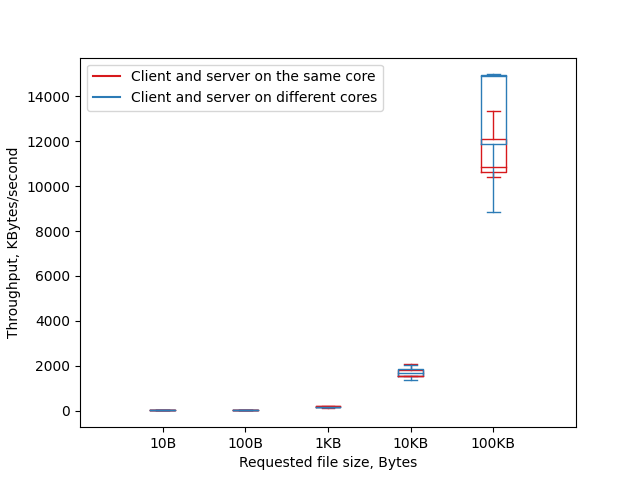
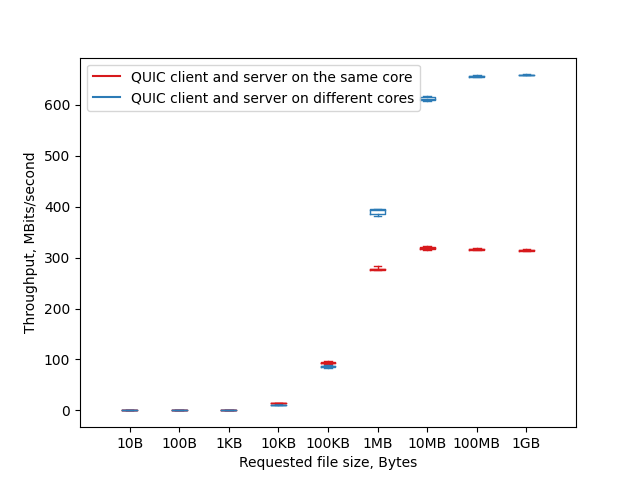
Improved impact-of-core-pinning test

diff --git a/testing-scripts/test_impact-of-core-pinning/visualise.py b/testing-scripts/test_impact-of-core-pinning/visualise.py
@@ -1,0 +1,117 @@
+print("Visualising...")
+
+
+# import matplotlib
+# import matplotlib.pyplot as plt
+# import numpy as np
+
+# 1. Extract data
+# Using code and ideas from: https://stackoverflow.com/questions/3207219/how-do-i-list-all-files-of-a-directory
+import os
+from os.path import isfile, join
+import csv
+from statistics import *
+import json
+
+
+
+number_of_experiments=10
+
+
+
+# Using writing functionality from https://www.programiz.com/python-programming/writing-csv-files
+with open('summary_of_results.csv', 'w', newline='') as summary_of_results_file:
+    results_writer = csv.writer(summary_of_results_file, delimiter=',')
+    results_writer.writerow(["number_of_experiments:", number_of_experiments])
+    results_writer.writerow(["delay_ms", "probability_of_loss_percentage", "payload_size", "clients_requests",      
+        "min_receiver_throughput_megabits_per_second", "max_receiver_throughput_megabits_per_second", "avg_receiver_throughput_megabits_per_second", "stdev_receiver_throughput_megabits_per_second",
+        "min_completion_time_in_miliseconds"         , "max_completion_time_in_miliseconds"         , "avg_completion_time_in_miliseconds"         , "stdev_completion_time_in_miliseconds",
+        "min_lost_percent"                           , "max_lost_percent"                           , "avg_lost_percent"                           , "stdev_lost_percent",
+        "min_emitted_bytes"                          , "max_emitted_bytes"                          , "avg_emitted_bytes"                          , "stdev_emitted_bytes" 
+        ])
+
+    # 1. Extract data
+    for delay_ms in [0]: #0 1 10 100
+        for probability_of_loss_percentage in [0]: #0.0001 0.001 0.01 0.1 1 
+            for payload_size in [1000000, 10000000, 100000000, 1000000000]: #1000000, 10000000, 100000000, 1000000000
+                for clients_requests in [1]: #1, 10
+
+                    group_experiment_description=("payload-size_" + str(payload_size) + 
+                        "____delay-ms_" + str(delay_ms) + 
+                        "____loss-rate-percent_" + str(probability_of_loss_percentage) +
+                        "____clients-requests_" + str(clients_requests))
+                    experiment_group_folder="./results/" + group_experiment_description
+                    print("experiment_group_folder: ", experiment_group_folder)
+
+                    list_receiver_throughput_megabits_per_second = []
+                    list_completion_time_in_miliseconds = []
+                    list_lost_percent = []
+                    list_emitted_bytes=[]
+
+                    
+
+                    for experiment_number in range(1,number_of_experiments+1):
+                        print("----")
+                        print ("  experiment_number              : ", experiment_number)
+                        print ("  payload_size                   : ", payload_size)
+                        print ("  probability_of_loss_percentage : ", probability_of_loss_percentage)
+                        print ("  delay-ms                       : ", delay_ms)
+                        print ("  clients_requests               : ", clients_requests)
+                        
+                        individual_experiment_folder= str(experiment_group_folder) + "/" + str(experiment_number)
+
+
+                        # File reading functionality is written according instructions from:
+                        # https://stackabuse.com/reading-and-writing-json-to-a-file-in-python/
+                        # https://realpython.com/read-write-files-python/
+                        with open(individual_experiment_folder+'/result.json') as results_file:
+                            experiment_data = json.load(results_file)
+                            experiment_summary = experiment_data['end']['sum']
+
+                            receiver_throughput_megabits_per_second = float(experiment_summary['bits_per_second'])/1000000
+                            list_receiver_throughput_megabits_per_second.append(receiver_throughput_megabits_per_second)
+
+                            completion_time_in_miliseconds = float(experiment_summary['seconds'])*1000
+                            list_completion_time_in_miliseconds.append(completion_time_in_miliseconds)
+
+                            lost_percent = float(experiment_summary['lost_percent'])
+                            list_lost_percent.append(lost_percent)
+
+                            emitted_bytes = float(experiment_summary['bytes'])
+                            list_emitted_bytes.append(emitted_bytes)
+
+                            print("    completion_time_in_miliseconds          : ", float(completion_time_in_miliseconds))
+                            print("    receiver_throughput_megabits_per_second : ", float(receiver_throughput_megabits_per_second))
+                            print("    lost_percent                            : ", float(lost_percent))
+                            print("    emitted_bytes                           : ", float(emitted_bytes))
+
+
+                    #1.1 Summarise data
+                    min_receiver_throughput_megabits_per_second   = max(list_receiver_throughput_megabits_per_second)  
+                    max_receiver_throughput_megabits_per_second   = min(list_receiver_throughput_megabits_per_second)   
+                    avg_receiver_throughput_megabits_per_second   = mean(list_receiver_throughput_megabits_per_second)  
+                    stdev_receiver_throughput_megabits_per_second = stdev(list_receiver_throughput_megabits_per_second)  
+
+
+                    min_completion_time_in_miliseconds   = max(list_completion_time_in_miliseconds)  
+                    max_completion_time_in_miliseconds   = min(list_completion_time_in_miliseconds)   
+                    avg_completion_time_in_miliseconds   = mean(list_completion_time_in_miliseconds)  
+                    stdev_completion_time_in_miliseconds = stdev(list_completion_time_in_miliseconds)  
+
+                    min_lost_percent   = max(list_lost_percent)  
+                    max_lost_percent   = min(list_lost_percent)   
+                    avg_lost_percent   = mean(list_lost_percent)  
+                    stdev_lost_percent = stdev(list_lost_percent)  
+
+
+                    min_emitted_bytes   = max(list_emitted_bytes)  
+                    max_emitted_bytes   = min(list_emitted_bytes)   
+                    avg_emitted_bytes   = mean(list_emitted_bytes)  
+                    stdev_emitted_bytes = stdev(list_emitted_bytes)  
+
+                    #1.2 Write summarised data
+                    results_writer.writerow([delay_ms, probability_of_loss_percentage, payload_size, clients_requests,
+                        min_receiver_throughput_megabits_per_second, max_receiver_throughput_megabits_per_second, avg_receiver_throughput_megabits_per_second, stdev_receiver_throughput_megabits_per_second,
+                        min_completion_time_in_miliseconds         , max_completion_time_in_miliseconds         , avg_completion_time_in_miliseconds         , stdev_completion_time_in_miliseconds,
+                        min_lost_percent                           , max_lost_percent                           , avg_lost_percent                           , stdev_lost_percent,
+                        min_emitted_bytes                          , max_emitted_bytes                          , avg_emitted_bytes                          , stdev_emitted_bytes             ])

diff --git a/testing-scripts/test_impact-of-core-pinning/h2load_client.py b/testing-scripts/test_impact-of-core-pinning/h2load_client.py
@@ -4,16 +4,17 @@ from io import StringIO
 import matplotlib
 import matplotlib.pyplot as plt
 import numpy as np
+import json
 
 # 0. Constants
-NUMBER_OF_REPEATED_EXPERIMENTS = 3
+NUMBER_OF_REPEATED_EXPERIMENTS = 10
 
 
-# payload_sizes          = [10,     100,   1024,  10240 , 102400 ]#, 1048576, 10485760, 104857600, 1073741824, 4294967295]
-# payload_sizes_in_bytes = ['10B', '100B', '1KB', '10KB', '100KB']#,  '1MB',   '10MB',   '100MB',      '1GB',      '4GB']
+payload_sizes          = [10,     100,   1000,  10000 , 100000 , 1000000, 10000000, 100000000, 1000000000]
+payload_sizes_in_bytes = ['10B', '100B', '1KB', '10KB', '100KB',   '1MB',   '10MB',   '100MB',      '1GB']
 
-payload_sizes          = [10240] #,  102400, 1048576, 10485760] #, 104857600] #, 1073741824, 4294967295]
-payload_sizes_in_bytes = ['10KB'] #, '100KB',  '1MB',   '10MB'] #,   '100MB'] #,      '1GB',      '4GB']
+# payload_sizes          = [10240] #,  102400, 1048576, 10485760] #, 104857600] #, 1073741824, 4294967295]
+# payload_sizes_in_bytes = ['10KB'] #, '100KB',  '1MB',   '10MB'] #,   '100MB'] #,      '1GB',      '4GB']
 
 # payload_sizes          = [   10,    100,  1024,  10240,  102400, 1048576, 10485760, 104857600, 1073741824, 4294967295]
 # payload_sizes_in_bytes = ['10B', '100B', '1KB', '10KB', '100KB',   '1MB',   '10MB',   '100MB',       '1GB',     '4GB']
@@ -46,25 +47,26 @@ def perform_measurement(parameters):
 
             
             if measurements[2][-4].isdigit() and "B/s" == measurements[2][-3:]:
-                throughput_KB_per_second =  float(measurements[2][:-3])/1024
+                throughput_KB_per_second =  float(measurements[2][:-3])/1000
             else:
                 assert (not any(symbol.isdigit() for symbol in measurements[2][-4:]))
                 throughput_KB_per_second = float(measurements[2][:-4])
 
                 if "kB/s" == measurements[2][-4:] or "KB/s" == measurements[2][-4:]:
-                    throughput_KB_per_second *= 1
+                    throughput_KB_per_second *= 1024/1000
                 elif "MB/s" == measurements[2][-4:]:
-                    throughput_KB_per_second *= 1024
+                    throughput_KB_per_second *= 1024*1024/1000
                 elif "GB/s" == measurements[2][-4:]:
-                    throughput_KB_per_second *= 1024*1024
+                    throughput_KB_per_second *= 1024*1024*1024/1000
             
+            throughput_Mbits_per_second = throughput_KB_per_second*8/1000
             print(total_delay_ms, "ms")
             print(requests_per_second, "req/s")
-            print(throughput_KB_per_second, "KB/s")
+            print(throughput_Mbits_per_second, "MBits/s")
 
             return ({"total_delay_ms": total_delay_ms,
                     "requests_per_second": requests_per_second, 
-                    "throughput_KB_per_second": throughput_KB_per_second})
+                    "throughput_Mbits_per_second": throughput_Mbits_per_second})
 
 def perform_group_of_measurements(parameter_list_prefix, parameter_list_suffix):
     delays      = []
@@ -76,7 +78,7 @@ def perform_group_of_measurements(parameter_list_prefix, parameter_list_suffix):
         print(url)
 
         parameters = parameter_list_prefix.copy()
-        parameters.extend(["../../../nghttp2/src/h2load", "--npn-list", "h3", url])
+        parameters.extend(["/root/evaluation/unencrypted_stack/nghttp2/src/h2load", "--npn-list", "h3", url])
         parameters.extend(parameter_list_suffix)
         print("parameters: ", parameters)
         
@@ -88,7 +90,7 @@ def perform_group_of_measurements(parameter_list_prefix, parameter_list_suffix):
             measurements = perform_measurement(parameters)
             repeated_delays.append(measurements['total_delay_ms'])
             repeated_requests.append(measurements['requests_per_second'])
-            repeated_throughputs.append(measurements['throughput_KB_per_second'])
+            repeated_throughputs.append(measurements['throughput_Mbits_per_second'])
 
         delays.append(repeated_delays)
         requests.append(repeated_requests)
@@ -190,21 +192,43 @@ def draw_boxplot_2seq(xaxis_ticks, data_seq1, data_seq2, label1, label2, y_axis_
 # ---------------------------------------------------------
 # Precondition: server 
 # 1. Perform measurements
-measurements_on_same_cores       = perform_group_of_measurements(["taskset", "0x1", "ip", "netns", "exec", "mr_client"], [])
-measurements_on_different_cores  = perform_group_of_measurements(["taskset", "0x2", "ip", "netns", "exec", "mr_client"], [])
+measurements_on_same_cores       = perform_group_of_measurements(["taskset", "-c", "0", "ip", "netns", "exec", "mr_client"], [])
+measurements_on_different_cores  = perform_group_of_measurements(["taskset", "-c", "1", "ip", "netns", "exec", "mr_client"], [])
 
 print(payload_sizes)
 print(measurements_on_same_cores['throughputs'])
 print(measurements_on_different_cores['throughputs'])
 
+
+
+
+results_output_JSON={
+    "payload_sizes": payload_sizes,
+    "measurements_on_same_cores_throughputs": measurements_on_same_cores['throughputs'],
+    "measurements_on_different_cores_throughputs": measurements_on_different_cores['throughputs']
+}
+
+with open('h2load_results.txt', 'w') as h2load_results_file:
+    json.dump(results_output_JSON, h2load_results_file)
+
+
+
 # 2. Draw measurements
 draw_boxplot_2seq(payload_sizes_in_bytes,
              measurements_on_same_cores['throughputs'], 
              measurements_on_different_cores['throughputs'],
-             'Client and server on the same core',
-             'Client and server on different cores',
-             'Throughput, KBytes/second', 
+             'QUIC client and server on the same core',
+             'QUIC client and server on different cores',
+             'Throughput, MBits/second', 
              'Throughput when packets go via machine B (A1-to-B-to-A2)')
+
+
+
+
+
+
+
+
 
 # draw_boxplot_2seq(payload_sizes_in_bytes,
 #              measurements_on_same_cores['delays'], 

diff --git a/testing-scripts/test_impact-of-core-pinning/visualise_h2load_throughput_variance.py b/testing-scripts/test_impact-of-core-pinning/visualise_h2load_throughput_variance.py
@@ -1,0 +1,31 @@
+import json
+import statistics
+import csv
+
+# 1. Read JSON
+with open('h2load_results.txt') as h2load_results_file:
+    results_output_JSON = json.load(h2load_results_file)
+    # print(results_output_JSON)
+
+
+    # 2. Compute variation for each payload group for each core individually
+
+    payload_sizes = results_output_JSON["payload_sizes"]
+    measurements_on_same_cores_throughputs = results_output_JSON["measurements_on_same_cores_throughputs"]
+    measurements_on_different_cores_throughputs = results_output_JSON["measurements_on_different_cores_throughputs"]
+
+    # print(measurements_on_same_cores_throughputs)
+    throughput_stdevs_on_same_cores = [statistics.stdev(list_of_througput) for list_of_througput in measurements_on_same_cores_throughputs]
+    print(throughput_stdevs_on_same_cores)
+    throughput_stdevs_on_different_cores = [statistics.stdev(list_of_througput) for list_of_througput in measurements_on_different_cores_throughputs]
+    print(throughput_stdevs_on_different_cores)
+    
+
+    # 3. Visualise the results
+    # Using writing functionality from https://www.programiz.com/python-programming/writing-csv-files
+    with open('throughput_stdevs.csv', 'w', newline='') as summary_of_results_file:
+        results_writer = csv.writer(summary_of_results_file, delimiter=',')
+        
+        results_writer.writerow(["payload_sizes_in_bytes"] + payload_sizes)
+        results_writer.writerow(["throughput_stdevs_on_same_cores"] + throughput_stdevs_on_same_cores)
+        results_writer.writerow(["throughput_stdevs_on_different_cores"] + throughput_stdevs_on_different_cores)

diff --git a/testing-scripts/test_impact-of-core-pinning/h2load_server.py b/testing-scripts/test_impact-of-core-pinning/h2load_server.py
@@ -12,14 +12,13 @@ def run_command_in_terminal(parameters):
     return command_output
 
 
-NGTCP2_RELATIVE_LOCATION = "../../../ngtcp2/"
+NGTCP2_RELATIVE_LOCATION = "/root/evaluation/unencrypted_stack/ngtcp2/"
 
-run_command_in_terminal(["taskset", "0x1", "ip", "netns", "exec", "mr_server", 
+run_command_in_terminal(["taskset", "-c", "0", "ip", "netns", "exec", "mr_server", 
                         NGTCP2_RELATIVE_LOCATION + "/examples/server", 
                         "--htdocs", NGTCP2_RELATIVE_LOCATION + "/examples/servers_folder", 
                         "-q", 
                         "--max-dyn-length=4g", 
-                        "--max-udp-payload-size=1500", 
                         "10.2.2.101", "7777", 
                         NGTCP2_RELATIVE_LOCATION + "/examples/server.key", 
                         NGTCP2_RELATIVE_LOCATION + "/examples/server.cert"])
